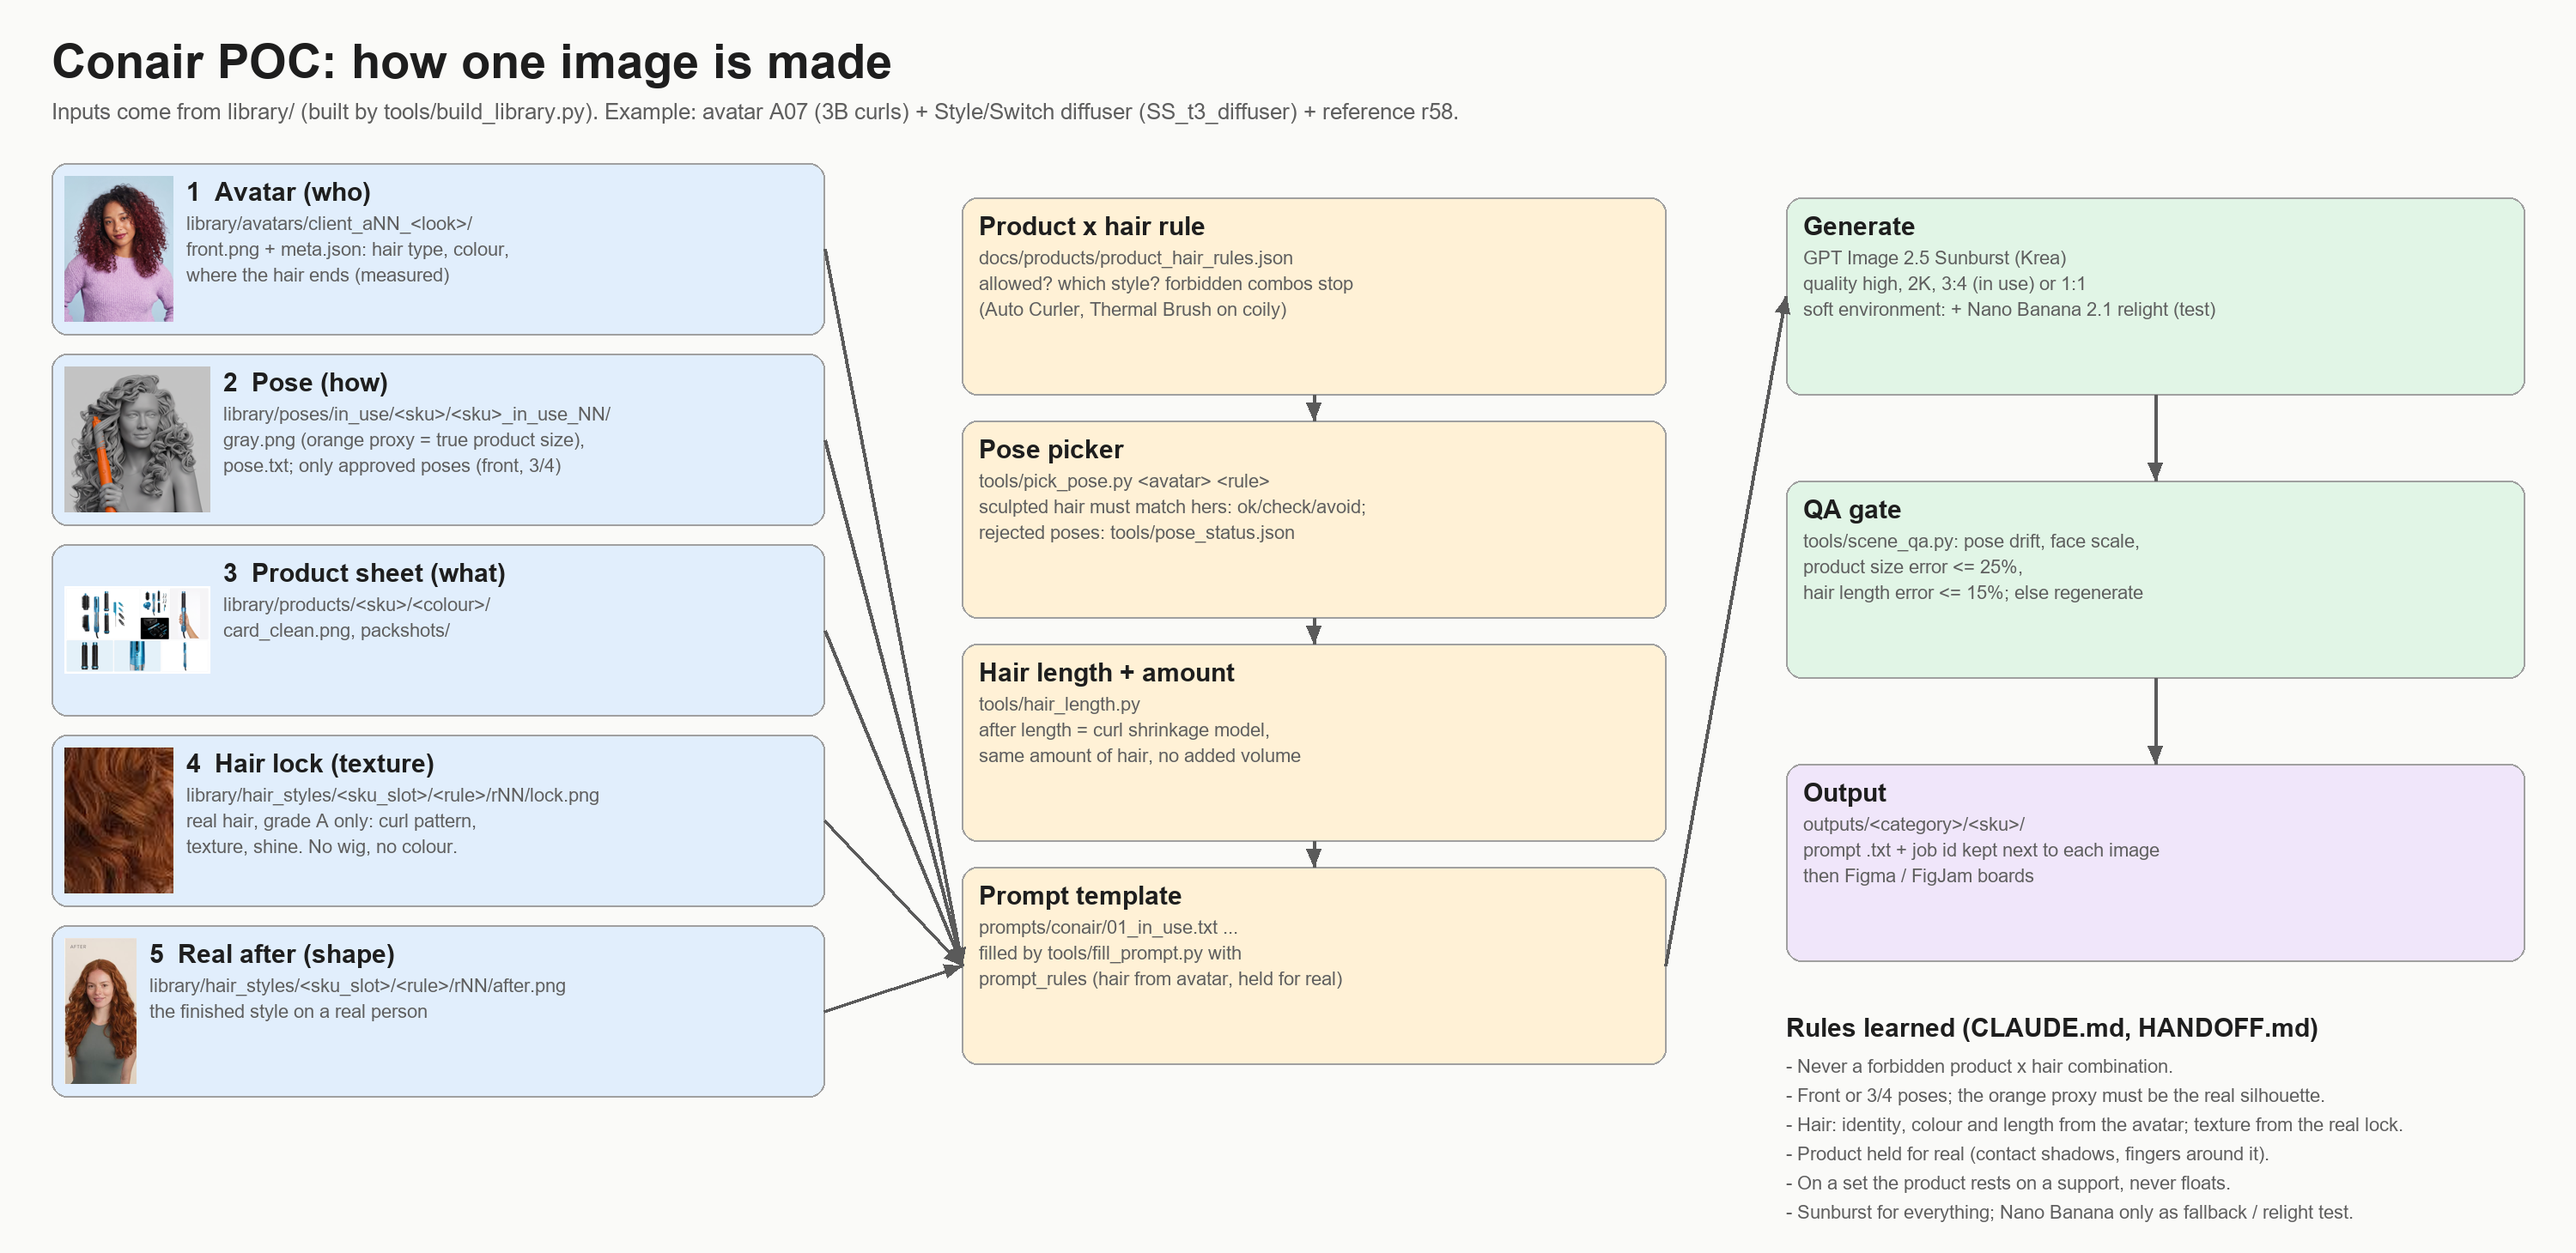
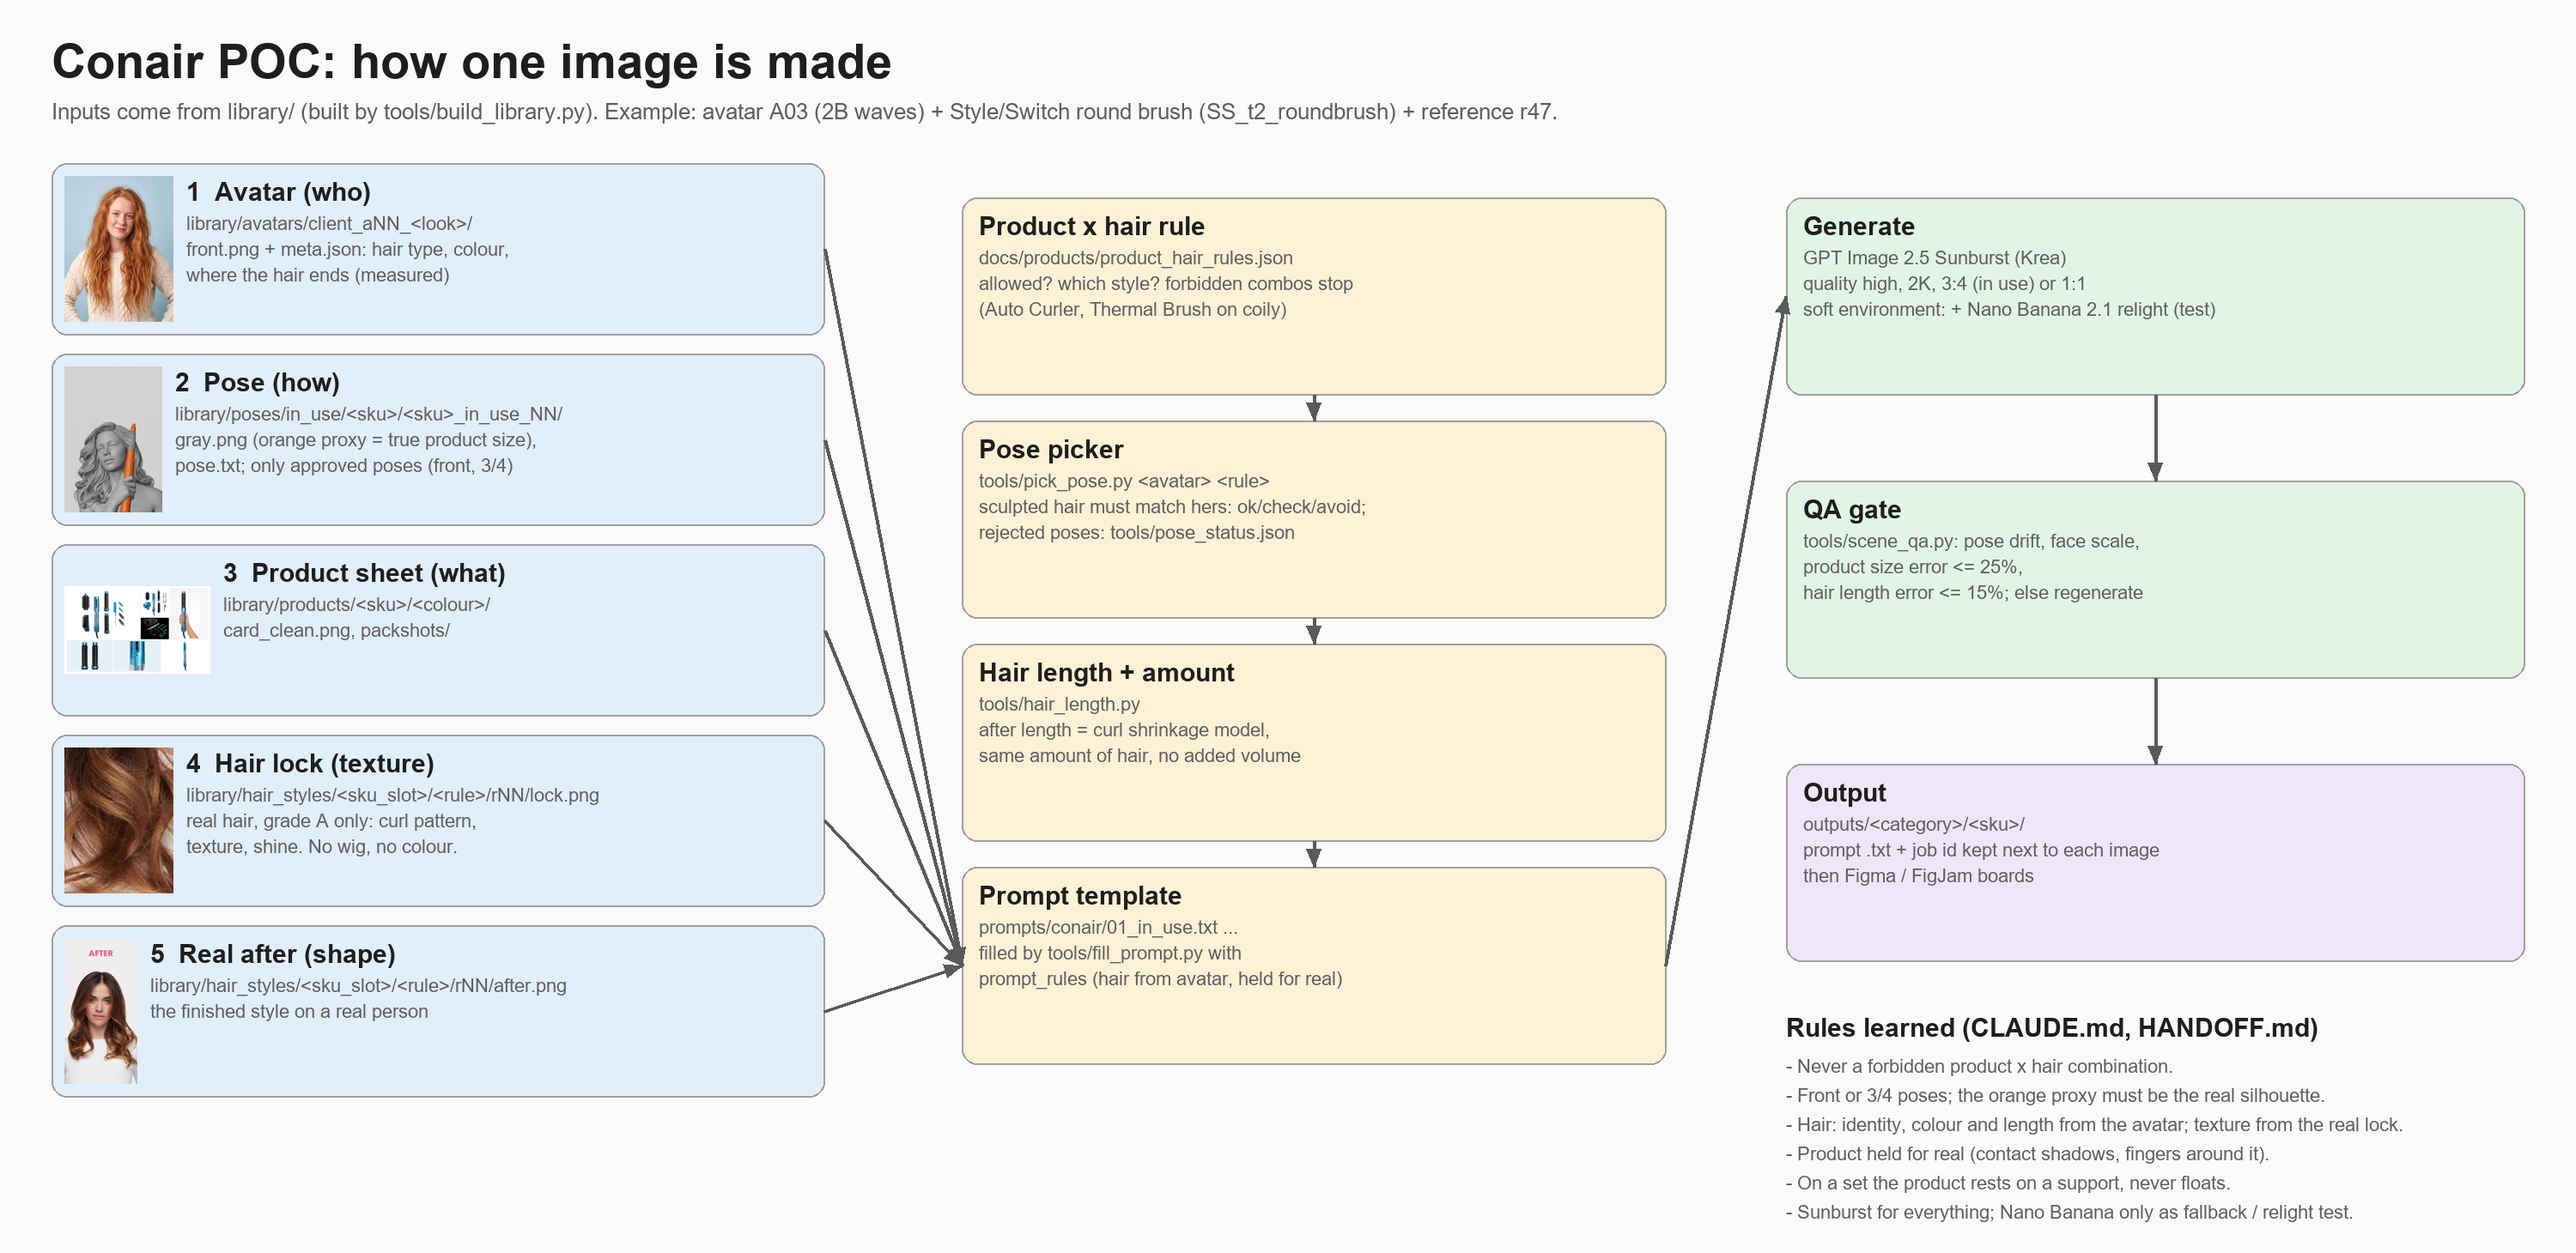
Conair POC: stricter pose filter (by eye on every gray render), fill_prompt uses the reference's own folder, diagram with an approved pose

Changed region(s): [[0.0, 0.5856, 0.217, 0.863], [0.0, 0.1541, 0.217, 0.4315], [0.341, 0.0616, 0.589, 0.0925]]

diff --git a/tools/draw_pipeline.py b/tools/draw_pipeline.py
@@ -1,6 +1,6 @@
 """Draws docs/conair/pipeline.png: how one Conair image is made (inputs -> logic -> prompt -> model -> QA -> output).
 
-Uses real library files as thumbnails (example: avatar A07, Style/Switch diffuser, reference r58).
+Uses real library files as thumbnails (example: avatar A03, Style/Switch round brush, reference r47).
     python tools/draw_pipeline.py
 """
 import os
@@ -44,14 +44,14 @@ def arrow(x0, y0, x1, y1):
 
 
 d.text((60, 40), "Conair POC: how one image is made", font=B[56], fill=INK)
-d.text((60, 115), "Inputs come from library/ (built by tools/build_library.py). Example: avatar A07 (3B curls) + Style/Switch diffuser (SS_t3_diffuser) + reference r58.", font=F[26], fill=GREY)
+d.text((60, 115), "Inputs come from library/ (built by tools/build_library.py). Example: avatar A03 (2B waves) + Style/Switch round brush (SS_t2_roundbrush) + reference r47.", font=F[26], fill=GREY)
 
 ex = {
-    "avatar": f"{LIB}/avatars/client_a07_burgundy_curls/front.png",
-    "pose": f"{LIB}/poses/in_use/style_switch/style_switch_in_use_02/gray.png",
+    "avatar": f"{LIB}/avatars/client_a03_red_wavy/front.png",
+    "pose": f"{LIB}/poses/in_use/style_switch/style_switch_in_use_01/gray.png",
     "product": f"{LIB}/products/style_switch/nano_blue/card_clean.png",
-    "lock": f"{LIB}/hair_styles/style_switch_diffuser/SS_t3_diffuser/r58/lock.png",
-    "after": f"{LIB}/hair_styles/style_switch_diffuser/SS_t3_diffuser/r58/after.png",
+    "lock": f"{LIB}/hair_styles/style_switch_round_brush/SS_t2_roundbrush/r47/lock.png",
+    "after": f"{LIB}/hair_styles/style_switch_round_brush/SS_t2_roundbrush/r47/after.png",
 }
 X0, BW, BH, GAP = 60, 900, 200, 22
 inputs = [

diff --git a/tools/fill_prompt.py b/tools/fill_prompt.py
@@ -109,6 +109,7 @@ def main():
         ref = refs[a.ref]
         if ref["grade"] != "A":
             sys.exit(f"{a.ref} is grade {ref['grade']}; only grade A references are style inputs")
+        v["ref_dir"] = f"{ref['sku']}/{ref['rule']}/{a.ref}"  # a reference can serve a neighbour rule of the same slot
         if a.rule != "-" and ref["sku"] != v["sku_slot"]:
             notes.append(f"{a.ref} is a {ref['sku']} reference ({ref['rule']}), not {v['sku_slot']}")
     if not sku:
